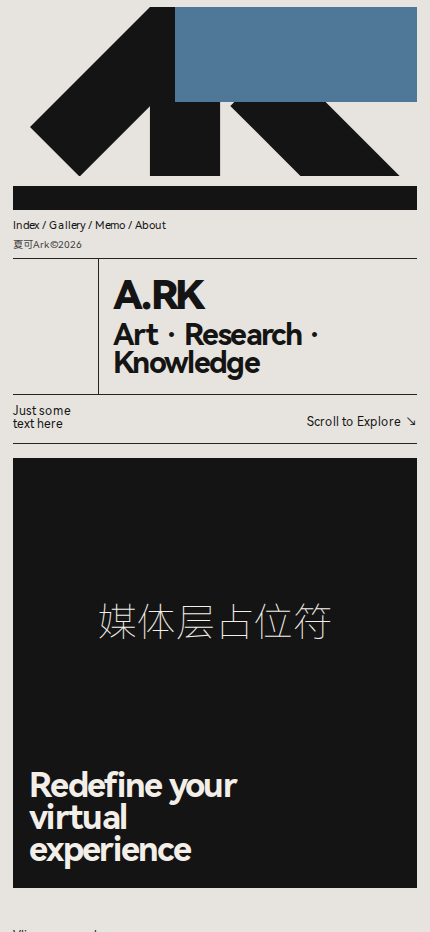
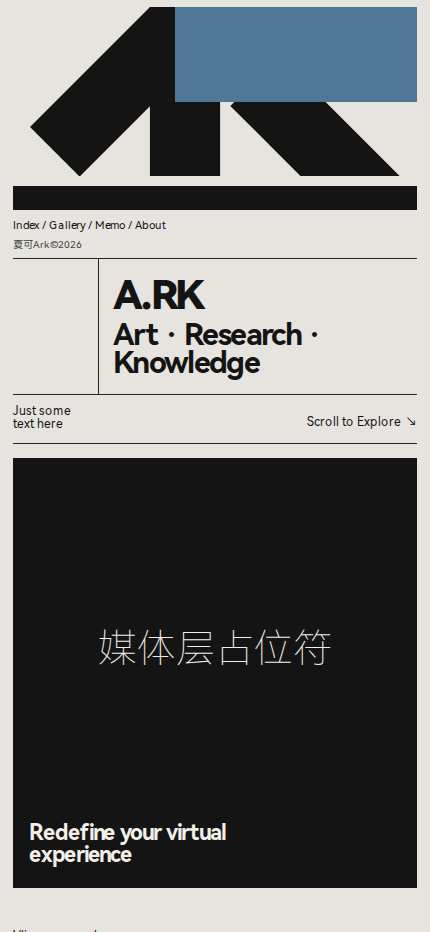
feat: refine hero geometry and mobile panel typography

Changed region(s): [[0.0605, 0.809, 0.5442, 0.9335], [0.2116, 0.6534, 0.7558, 0.7157]]

diff --git a/PLAN.md b/PLAN.md
@@ -56,6 +56,19 @@
 ## Status Log
 ### 2026-04-21
 - Completed:
+  - 继续推进 Hero/Info：增大桌面主 logo 占比并微调蓝色块宽度，尝试修正 1280 顶区交叉点偏移。
+  - 移动端 feature panel 标题降级（`max-width`、字号、行高），使 430 首屏阅读层级更接近参考。
+  - 刷新固定审图文件到 `Homepage/review-shots/latest` 四张路径。
+- Next:
+  - 继续针对 1280 处理主 logo 右侧黑形体的切入角度与位置（当前仍偏右偏低）。
+  - 修正 1024/1280 顶部小标识与主形体的相对高度，减少首屏结构错位感。
+- Blocked:
+  - 无真实阻塞；compare 失败仍来自视觉差异。
+- Verification:
+  - `npm run check`
+  - `npm run verify:ark`
+
+- Completed:
   - 继续推进顶部构图校准：收紧桌面 hero 顶部留白（`.ref-home__hero`）、微调主 logo 与蓝色块比例，压低 1024/1280 的结构漂移。
   - 细调 `<=640` hero 比例与 logo 宽度，恢复并提升 `430` 断点拟合度。
   - 刷新固定审图集到 `Homepage/review-shots/latest/{430-top,1024-top,1280-top,1280-full}.png`。
